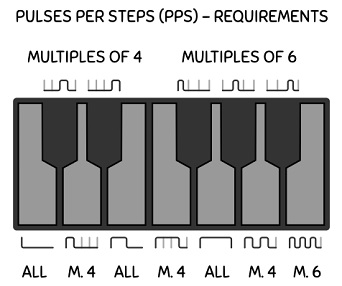
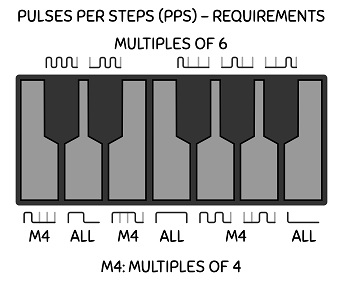
update manual

diff --git a/README.md b/README.md
@@ -195,17 +195,15 @@ Familiarity with the Fundamental SEQ-3 sequencer is recommended, as some operati
 
 Holding the MODE button for **two seconds** allows the selection of the clock resolution, in number of pulses per step (PPS). When set to a value greater than 1, which unlocks the advanced gate mode, the sequencer will skip this many clock pulses before advancing to the next step. In such cases, a mutliplied clock must be supplied in order to keep the same tempo in the sequencer. In advanced gate mode, the pulse width of the clock is not used and has no effect on the gates.
 
-In the advanced gate mode, the Gate1 and Gate2 lights will be a different color, and the onboard keyboard can be used not only to enter note values, but also to select one of the 12 types of gates for a given step. Advanced gates can only be set while in Seq mode and when the sequencer is stopped. Here are the different gate modes and their minimum PPS requirements.
+In the advanced gate mode, the Gate1 and Gate2 lights will be a different color, and the onboard keyboard can be used not only to enter note values, but also to select one of the 12 types of gates for a given step. Advanced gates can only be set while in Seq mode and when the sequencer is stopped. Here are the different gate types and their minimum PPS requirements.
 
 ![IM](res/img/AdvancedGateDetails.jpg)
 
-For a trigger (the C key), a half and a full gate (the E and G keys), all PPS settings will work. A full gate remains high during the entire step, and if the next step's gate is active, then the gate continues without interruption into that next step. When PPS requirements are not met, the sequencer will not allow invalid gate types to be entered on the keyboard. For example, if PPS is set to 6, the 50% gate (the E key) can not be selected. Selecting a PPS value of 12 or 24 will ensure that all gate types can be used (i.e. that all PPS requirements are met irrespective of the gate type chosen).
+All PPS settings will work for the half and full gates (the D and F keys) as well as triggers (the B key). A full gate remains high during the entire step, and if the next step's gate is active, then the gate continues without interruption into that next step. When PPS requirements are not met, the sequencer will not allow invalid gate types to be entered on the keyboard. For example, if PPS is set to 6, then the 75% gate (the E key) can not be selected. Selecting a PPS value of 12 or 24 will ensure that all gate types can be used (i.e. that all PPS requirements are met irrespective of the gate type chosen).
 
-The gate mode for a given step can be selected during a short time interval after a given gate has just been turned on using the Gate1 or Gate2 buttons. If a gate is already turned on and its gate mode is to be edited, clicking the gate button twice will allow it to be edited while keeping it in the same state. The onboard keyboard will temporarily show a yellow/orange light corresponding to the current gate mode for that step; during this time the gate mode can be changed. 
+The gate type for a given step can be selected during a short time interval after a given gate has just been turned on using the Gate1 or Gate2 buttons. If a gate is already turned on and its gate type is to be edited, clicking the gate button twice will allow it to be edited while keeping it in the same state. The onboard keyboard will temporarily show a yellow/orange light corresponding to the current gate type for that step; during this time the gate type can be changed. 
 
 Since the editing time for the advanced gate mode is kept rather short (2.5s), holding the Gate2 button for 2s will set that default time interval to 250s. Holding Gate1 for 2s will revert to the default time of 2.5s. The extended time feature is useful when the gate modes for multiple steps of a sequence are to be editied or reviewed in a single pass, for example.
-
-**Gate hack**: select a PPS of 12 or 24, enter gate types that are invalid at a chosen lower PPS (4 or 6), and then once entered, set the PPS to that lower value. The sequencer will still produce gate signals, but not exactly according to the pattern indicated. This can be explored and may actually be a way of producing other gate pattens than the ones provided by the sequencer.
 
 ([Back to module list](#modules))
 
